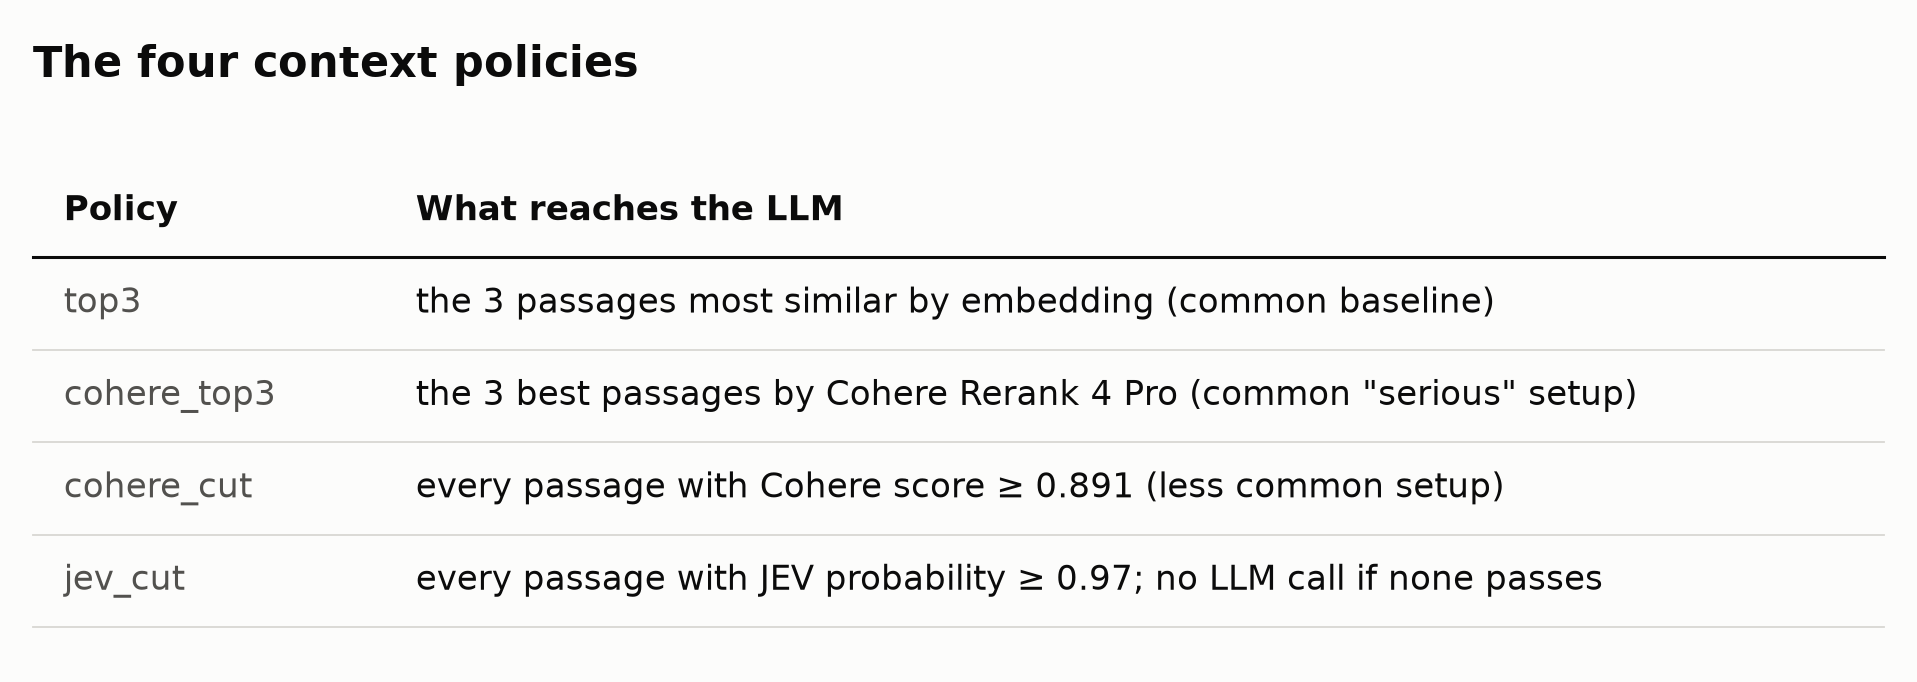
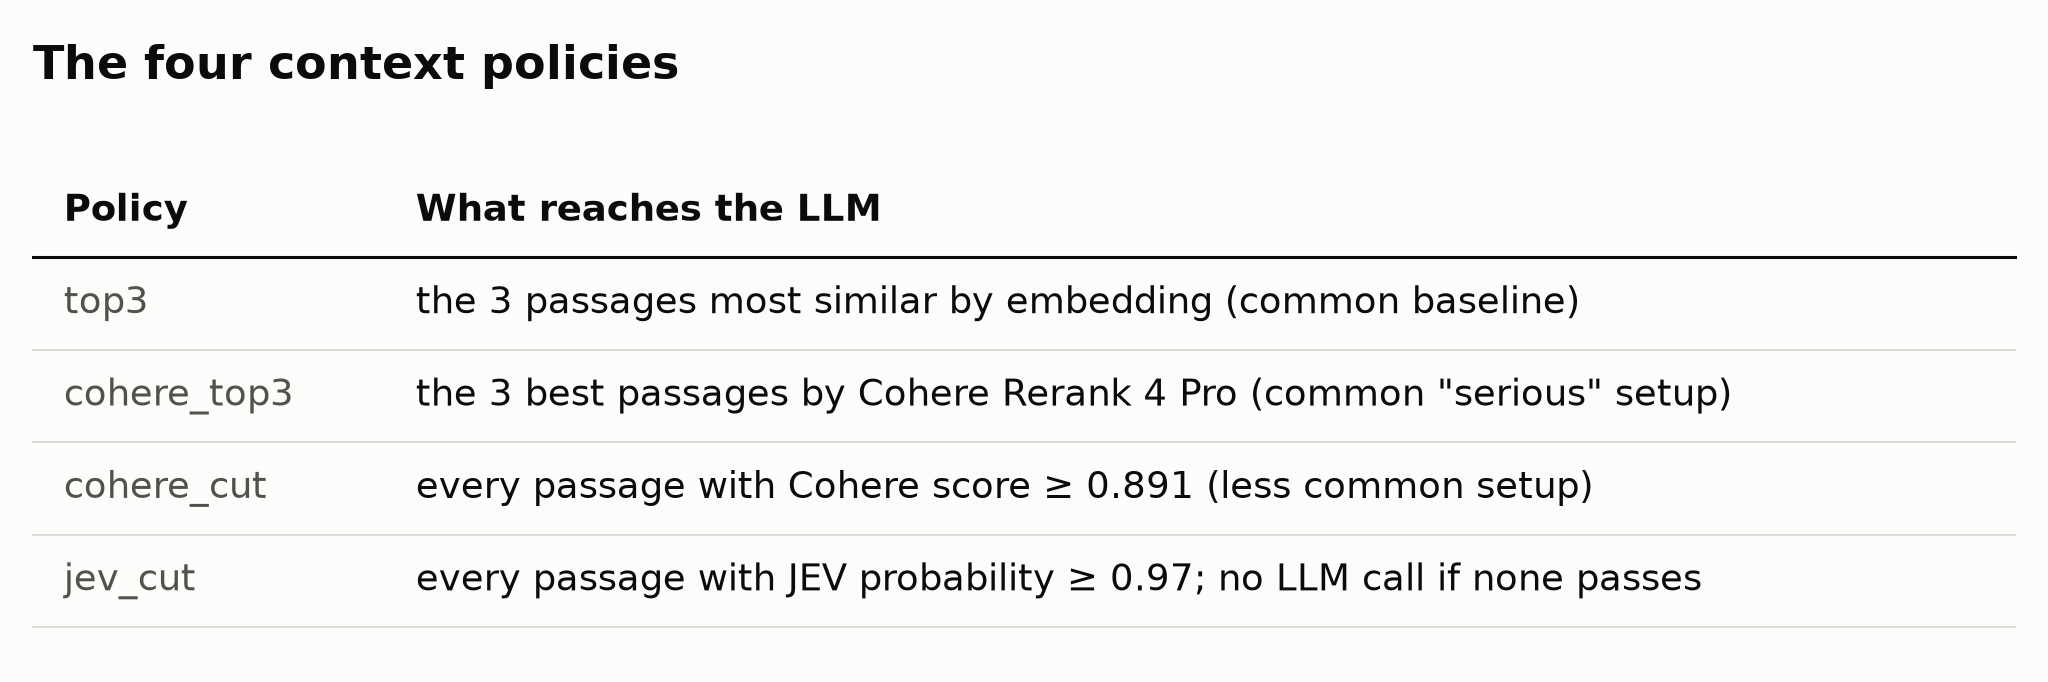
Revise article and figures after review
- Add the "confidently wrong answers" metric and a three-way split of
  answers (correct / confidently wrong / incorrect "I don't know")
- Figure 4: four methods, fair 85%-served comparison, full reranker names
- Figure notes, bolding and larger font; tested code snippet
- Shorter title, AI-assistance note and disclosure at the top

diff --git a/make_figures.py b/make_figures.py
@@ -20,7 +20,7 @@ ACCENT = "#2a78d6"  # highlighted column (JEV)
 ACCENT_TINT = "#e8f0fb"
 
 FONT = "DejaVu Sans"
-SIZE = 11
+SIZE = 12
 ROW_H = 0.42  # inches
 PAD_X = 0.14  # inches of horizontal padding per cell
 
@@ -132,14 +132,15 @@ def main() -> None:
     ]
     cols = [1, 2, 3, 4]
     b = set()
-    for r, lower in enumerate([True, True, True, False, False, True, False]):
+    for r, lower in enumerate([True, True, True, False, False, True]):  # last row (no LLM call) is cost, not quality
         b |= best(rows, r, cols, lower)
     table(
         "fig2_results",
         "Wrong answers and accuracy by context policy",
         head, rows, highlight=4, bold=b, first_col_min=3.9,
-        note="Bold: best value in each row. Judge: claude-sonnet-5. Generator: gpt-4.1-mini. One run.\n"
-             "Confidently wrong = not correct and not \"I don't know\" (includes hallucinations).",
+        note="Bold: best value in each quality row. Judge: claude-sonnet-5. Generator: gpt-4.1-mini. One run.\n"
+             "Every answer is exactly one of: correct, confidently wrong (includes hallucinations), or an\n"
+             "incorrect \"I don't know\" (a false abstention, or an abstention mixed with an unsupported claim).",
     )
 
     # 3. cost
@@ -154,26 +155,28 @@ def main() -> None:
         "fig3_cost",
         "Cost per 1,000 questions",
         head, rows, highlight=4, bold=b, first_col_min=2.4,
-        note="* Cohere list price (~$2.50 per 1,000 searches). JEV and LLM costs measured from OpenRouter usage.\n"
-             "JEV vs. Cohere top-3: ~7× cheaper overall. JEV vs. plain top-3: +14% cost, 8× fewer hallucinations.",
+        note="Bold: lowest cost in each row. * Cohere list price (~$2.50 per 1,000 searches).\n"
+             "JEV and LLM costs measured from OpenRouter usage. The JEV cost includes an 11th call\n"
+             "per question that jev_cut doesn't use, so it is conservative (~9% high).",
     )
 
     # 4. ordering vs deciding
-    head = ["10 candidates per question", "Embedding", "MiniLM", "BGE-base", "bge-v2-m3", "Cohere 4 Pro", "JEV"]
+    head = ["", "Embedding", "bge-reranker-v2-m3", "Cohere Rerank 4 Pro", "JEV"]
     rows = [
-        ["Ordering: top-1 passage answers", "85%", "93%", "89%", "97%", "97%", "95%"],
-        ["Deciding: detects \"no useful passage\" (AUC)", "0.69", "0.70", "0.72", "0.79", "0.85", "0.95"],
-        ["Deciding: sends nothing when nothing is useful", "75%", "57%", "44%", "51%", "59%", "87%"],
-        ["…the same, used as top-k (the usual way)", "0%", "0%", "0%", "0%", "0%", "–"],
+        ["Top-1 passage answers", "85%", "97%", "97%", "95%"],
+        ["Detects \"no useful passage\" (AUC)", "0.69", "0.79", "0.85", "0.95"],
+        ["Withholds useless context*", "31%", "52%", "61%", "87%"],
+        ["…used as top-k (the usual way)", "0%", "0%", "0%", "–"],
     ]
-    cols = [1, 2, 3, 4, 5, 6]
+    cols = [1, 2, 3, 4]
     b = best(rows, 0, cols, False) | best(rows, 1, cols, False) | best(rows, 2, cols, False)
     table(
         "fig4_ordering_vs_deciding",
         "Rerankers order better. JEV decides better.",
-        head, rows, highlight=6, bold=b, first_col_min=4.3,
-        note="Retrieval-level evaluation, no LLM involved. 239 questions with a useful candidate (ordering);\n"
-             "61 with none (deciding). Cut-offs tuned on 100 separate questions. Bold: best value in each row.",
+        head, rows, highlight=4, bold=b, first_col_min=3.6,
+        note="Retrieval only, no LLM: all 300 test questions, 10 candidates each. Ordering: the 239\n"
+             "with a useful candidate. Deciding: the 61 without one. * With each method's cut-off set so that\n"
+             "85% of questions get a useful passage. Bold: best in row. MiniLM and BGE-base in the repository.",
     )
 
 

diff --git a/artigo_medium_en.md b/artigo_medium_en.md
@@ -1,8 +1,10 @@
-# JEV Gating vs. Top-k Reranking: 8× Fewer RAG Hallucinations at One-Seventh the Cost
+# JEV Gating Beats Top-k: 8× Fewer RAG Hallucinations at 1/7 the Cost
 
 ## Rerankers are great at ordering passages. They can't say "none of these answer the question." A decision model can.
 
-*Disclosure: the author has no affiliation with, and received no funding or credits from, TypeSafe, Cohere, Anthropic, OpenAI or OpenRouter. All API usage was paid for by the author (Cohere via its free trial key).*
+> **A note before you start.** This article isn't meant to pass as my own writing. Its purpose is to share an experiment that tested an idea of mine, and whose results, within the limits described below, support it. To get the results out quickly, the text was drafted by AI (Claude Opus 5.5) and reviewed and edited by me. The experiment code was also written with it, under my direction. The idea, the thesis and the decisions are mine, and every number comes from the code and results published in the repository. More details in "How this was made", at the end.
+>
+> **Disclosure:** I have no affiliation with, and received no funding or credits from, TypeSafe, Cohere, Anthropic, OpenAI or OpenRouter. All API usage was paid for by me (Cohere via its free trial key).
 
 ---
 
@@ -21,7 +23,7 @@ We ran 299 SQuAD 2.0 questions through four RAG context policies and had an LLM 
 
 A standard RAG pipeline embeds your documents, retrieves the *k* passages most similar to the question, optionally reranks them, and sends the top few to the LLM. This has two weak points:
 
-1. **Embeddings measure topic similarity, not usefulness.** A passage about *who designed* a monument looks very similar to *"when was the monument inaugurated?"*, but doesn't answer it. In our test, for **15% of the questions** the top embedding hit did not contain the answer, even though another retrieved passage did.
+1. **Embeddings measure topic similarity, not usefulness.** A passage about *who designed* a monument looks very similar to *"when was the monument inaugurated?"*, but doesn't answer it. In our test, in **15% of the questions that had a useful candidate**, the top embedding hit did not contain the answer, even though another retrieved passage did.
 2. **Nothing in the pipeline can say "there is no answer here."** Top-*k* always sends *k* passages. When the answer isn't in your documents, the LLM gets plausible but irrelevant context, and it tends to "help" by answering anyway.
 
 Rerankers fix the first problem, not the second. They are trained to **order** passages and are almost always used as "give me the top *k*", so there is always a "best" passage to send, even when every candidate is useless.
@@ -51,16 +53,21 @@ The property that matters: **JEV's probabilities were comparable across question
 - **Correct:** every part of the question is answered correctly. For an unanswerable question, the only correct answer is "I don't know".
 - **Hallucination:** the answer states something that is not in the context the LLM received, or that contradicts the reference.
 - **Confidently wrong:** the answer is not correct and does not say "I don't know". This includes hallucinations, and also answering an unanswerable question from a plausible passage. The judge doesn't flag that second case as a hallucination, because the claim is in the context, but for the user it's just as wrong.
+- **Incorrect "I don't know":** the answer says it doesn't know but isn't correct. This is either a false abstention (the answer existed) or, in a few cases, an abstention mixed with an unsupported claim.
+
+Every answer falls in exactly one of three groups: correct, confidently wrong, or incorrect "I don't know". Hallucinations are a subset of the confidently wrong answers.
 
 **The four context policies:**
 
 ![The four context policies: top3, cohere_top3, cohere_cut and jev_cut](https://raw.githubusercontent.com/marciosferreira/jev-vs-rerankers/main/figures/fig1_policies.png)
+*The four context policies compared.*
 
 ## Results
 
 ### Wrong answers and accuracy (299 questions)
 
 ![Hallucinated answers: top3 24, cohere_top3 23, cohere_cut 7, jev_cut 3. Confidently wrong answers: 46, 48, 24, 13. Correct answers: 81.3%, 81.9%, 79.3%, 83.6%](https://raw.githubusercontent.com/marciosferreira/jev-vs-rerankers/main/figures/fig2_results.png)
+*End-to-end results on 299 SQuAD 2.0 questions, graded by an LLM judge.*
 
 - **Against Cohere top-3:** in the questions where only one of the two hallucinated, JEV came out ahead **21 to 1**. For confidently wrong answers the count was **38 to 3**. Both have McNemar p < 0.001. Overall accuracy was a statistical tie.
 - **Against Cohere with a tuned cut-off:** JEV had fewer hallucinations (3 vs 7, not significant) and fewer confidently wrong answers (13 vs 24; p = 0.05, 95% CI of the difference −7.0 to −0.3 points). That result is borderline, not conclusive.
@@ -69,6 +76,7 @@ The property that matters: **JEV's probabilities were comparable across question
 ### Cost and latency
 
 ![Total cost per 1,000 questions: top3 $0.341, cohere_top3 $2.841, cohere_cut $2.650, jev_cut $0.389](https://raw.githubusercontent.com/marciosferreira/jev-vs-rerankers/main/figures/fig3_cost.png)
+*Cost per 1,000 questions: LLM generation plus passage scoring.*
 
 Cohere at list price, about $2.50 per 1,000 searches (one search is one query with up to 100 documents).
 
@@ -84,17 +92,18 @@ The JEV figures come from **11 calls per question**, sent in parallel: 10 releva
 
 We also scored all 10 candidates of every question with six methods and compared the scores with the ground truth, with no LLM involved.
 
-![Top-1 passage answers: Cohere and bge-v2-m3 97%, JEV 95%. Detects no useful passage (AUC): JEV 0.95, Cohere 0.85. Sends nothing when nothing is useful: JEV 87%, Cohere 59%](https://raw.githubusercontent.com/marciosferreira/jev-vs-rerankers/main/figures/fig4_ordering_vs_deciding.png)
+![Top-1 passage answers: Cohere Rerank 4 Pro and bge-reranker-v2-m3 97%, JEV 95%. Detects no useful passage (AUC): JEV 0.95, Cohere 0.85. Withholds useless context at 85% of questions served: JEV 87%, Cohere 61%, bge-reranker-v2-m3 52%, embedding 31%](https://raw.githubusercontent.com/marciosferreira/jev-vs-rerankers/main/figures/fig4_ordering_vs_deciding.png)
+*Retrieval-level comparison on all 300 test questions, no LLM involved.*
 
 Two different sets of "no answer" questions appear in this article:
 
 - **54 unanswerable questions**, where the answer isn't in the knowledge base at all;
 - **61 questions with no useful passage among the 10 candidates**: the 54 above, plus 7 where the answer is in the base but retrieval didn't bring it.
 
-The "deciding" rows use the 61.
+This retrieval-level evaluation doesn't use the judge, so it covers all 300 test questions: 239 with a useful candidate, which the "ordering" row uses, and 61 without one, which the "deciding" rows use.
 
 - **Ordering:** the state-of-the-art rerankers are 2 points ahead of JEV. That gap isn't statistically significant.
-- **Deciding:** JEV is clearly ahead. At a tuned cut-off it withheld useless context in **87%** of the 61 cases, against **59%** for Cohere (+28 points, 95% CI +13 to +43). The gap doesn't depend on that particular cut-off: if each method's cut-off is set so that 85% of the questions get a useful passage, JEV withholds in 87% of the cases and Cohere in 61%. The gap holds at 90% and 80% as well.
+- **Deciding:** JEV is clearly ahead. The fairest comparison sets each method's cut-off so that the same share of questions (85%) still gets a useful passage. At that point JEV withholds useless context in **87%** of the 61 cases, Cohere in **61%**, bge-reranker-v2-m3 in 52% and the embedding in 31%. The gap holds at 90% and 80% as well. With the cut-offs tuned on the separate question set, the numbers are 87% for JEV and 59% for Cohere (+28 points, 95% CI +13 to +43).
 
 The likely reason is how each model is trained. A reranker learns *"A is better than B for this query"*, so its scores aren't meant to be compared across queries. JEV answers a yes/no question with a probability, which is what a fixed "send it or not" rule needs.
 
@@ -118,9 +127,12 @@ def relevance(question: str, passage: str) -> float:
         },
         timeout=60,
     )
+    r.raise_for_status()   # surfaces 429s instead of a confusing KeyError
     return r.json()["answers"]["rel"]["noul"]   # probability of "yes", 0 to 1
 
 def answer(question: str, candidates: list[str], cutoff: float = 0.97) -> str:
+    if not candidates:
+        return "I couldn't find this in the documents I searched."
     with ThreadPoolExecutor(max_workers=len(candidates)) as pool:   # parallel: ~0.7 s for 10
         probs = list(pool.map(lambda p: relevance(question, p), candidates))
     context = [p for p, prob in zip(candidates, probs) if prob >= cutoff]
@@ -150,6 +162,17 @@ Practical notes:
 ## Bottom line
 
 If your application can live with an occasional "I don't know" but not with a confident wrong answer (legal, health, support, compliance), don't let a reranker's top-*k* decide what your LLM reads. Rerankers are excellent at ordering. A decision model is better at the question that actually prevents wrong answers: *is there anything here worth sending at all?*
+
+## How this was made
+
+This study was built together with an AI assistant, and I want to be specific about who did what.
+
+- **The question and the thesis are mine.** I started from a practical doubt: can a yes/no decision model tell apart passages that answer a question from passages that only look similar, better than a reranker? The claims in this article are the ones I decided to make.
+- **The code was written by Claude Opus 5.5** (Anthropic), running in Claude Code, from my instructions: the RAG pipeline, the experiments, the statistics and the figures.
+- **The method was a dialogue.** Several methodological choices were proposed by the AI and then accepted, changed or rejected by me. These included the similarity-threshold and top-*k* controls, testing against state-of-the-art rerankers, tuning cut-offs on a separate question set, and measuring real costs. Other choices came from me, such as putting the gate in front of a top-1 RAG, the focus on hallucination and cost, and which rerankers to test and in what order.
+- **The text was drafted with Claude Opus 5.5** and reviewed and edited by me.
+- **Every number comes from the published code and results**, not from the AI's text. Anyone can rerun the experiments from the repository.
+- **A note on vendors:** the code was written, and the answers graded, by Anthropic models (Claude Opus 5.5 and `claude-sonnet-5`). No Anthropic product was among the systems compared.
 
 ---
 

diff --git a/artigo_rascunho.md b/artigo_rascunho.md
@@ -4,8 +4,12 @@
 
 > **Rascunho** (versão em português; a versão para o Medium está em `artigo_medium_en.md`). Números de uma execução no SQuAD 2.0 (300 perguntas de teste).
 
-**Autores:** _a definir_
+**Autor:** Marcio Ferreira
 **Data:** setembro de 2026
+
+> **Antes de começar.** Este artigo não pretende parecer um texto escrito por mim. O objetivo é divulgar um experimento que testou uma ideia minha e cujos resultados, dentro dos limites descritos adiante, a sustentam. Para publicar os resultados mais rápido, o texto foi rascunhado por IA (Claude Opus 5.5) e revisado e editado por mim. O código dos experimentos também foi escrito com ela, sob a minha direção. A ideia, a tese e as decisões são minhas, e todos os números vêm do código e dos resultados publicados no repositório. Mais detalhes em "Como este trabalho foi feito", no fim.
+>
+> **Conflito de interesse:** não tenho vínculo com a TypeSafe, a Cohere, a Anthropic, a OpenAI ou o OpenRouter, nem recebi financiamento ou créditos deles. Todo o uso de API foi pago por mim (a Cohere, pela chave de teste gratuita).
 
 ---
 
@@ -32,7 +36,7 @@ Um pipeline de RAG típico segue quatro passos: (1) transformar a base de docume
 
 Esse desenho tem duas fragilidades:
 
-1. **Similaridade não é o mesmo que resposta.** O embedding mede se o trecho "fala do mesmo assunto". Um trecho sobre quem projetou o Cristo Redentor é muito parecido com a pergunta "quando o Cristo foi inaugurado?", mas não a responde. No nosso teste, **15% das perguntas** tinham um trecho útil entre os candidatos, mas o 1º colocado pelo embedding não respondia.
+1. **Similaridade não é o mesmo que resposta.** O embedding mede se o trecho "fala do mesmo assunto". Um trecho sobre quem projetou o Cristo Redentor é muito parecido com a pergunta "quando o Cristo foi inaugurado?", mas não a responde. No nosso teste, em **15% das perguntas que tinham um trecho útil entre os candidatos**, o 1º colocado pelo embedding não respondia.
 2. **Ninguém decide que não há resposta.** O passo (4) sempre envia *k* trechos. Quando a resposta não existe na base, o LLM recebe *k* trechos plausíveis e irrelevantes e tende a "ajudar" com uma resposta inventada. Os rerankers corrigem a **ordem**, mas não mudam isso: são treinados para ordenar e usados para devolver os top-*k*.
 
 **Tese.** Um modelo de decisão, que responde "este trecho ajuda a responder a pergunta?" com uma probabilidade comparável entre perguntas, pode fazer o que o reranker não faz: **enviar ao LLM só os trechos que servem, e nenhum quando nenhum serve.** Isso ataca a alucinação na origem, reduz o contexto enviado ao LLM e, nas perguntas sem resposta, evita até a chamada ao LLM. Testamos essa tese com o JEV contra rerankers de ponta.
@@ -118,6 +122,9 @@ Mesmos candidatos e mesmas notas da etapa 1. Quatro **políticas de contexto** d
 - **Correta:** todas as partes da pergunta respondidas corretamente. Numa pergunta sem resposta, a única resposta correta é "não sei".
 - **Alucinação:** a resposta afirma algo que não está no contexto recebido pelo gerador, ou que contradiz a referência.
 - **Errada com confiança:** a resposta não é correta e não diz "não sei". Isso inclui as alucinações e também **responder uma pergunta sem resposta a partir de um trecho parecido**. O juiz não marca esse segundo caso como alucinação, porque a afirmação está no contexto, mas para o usuário ela é igualmente errada.
+- **"Não sei" incorreto:** a resposta diz que não sabe, mas não é correta. É uma abstenção indevida (a resposta existia) ou, em poucos casos, uma abstenção misturada com uma afirmação sem apoio (2 casos no cohere_top3 e 2 no cohere_cut, nas perguntas sem resposta).
+
+Toda resposta cai em exatamente um de três grupos: correta, errada com confiança ou "não sei" incorreto. As alucinações são um subconjunto das erradas com confiança.
 
 **Dois conjuntos de "sem resposta":**
 
@@ -328,6 +335,19 @@ Deixar o JEV decidir o contexto, com um corte fixo na probabilidade de relevânc
 - **teve latência equivalente.**
 
 A contrapartida é mais "não sei" nas perguntas que tinham resposta. Para aplicações em que evitar alucinação é prioridade, os resultados indicam que um modelo de decisão como o JEV é uma camada de controle mais adequada, e mais barata, que os rerankers de ponta.
+
+---
+
+## Como este trabalho foi feito
+
+Este estudo foi construído junto com um assistente de IA, e vale dizer com precisão quem fez o quê.
+
+- **A pergunta e a tese são do autor.** O ponto de partida foi uma dúvida prática: um modelo de decisão sim/não separa melhor que um reranker os trechos que respondem à pergunta dos que só parecem parecidos? As afirmações deste artigo são as que o autor decidiu fazer.
+- **O código foi escrito pelo Claude Opus 5.5** (Anthropic), no Claude Code, a partir das instruções do autor: o pipeline de RAG, os experimentos, a estatística e as figuras.
+- **O método foi construído em diálogo.** Várias escolhas de método foram propostas pela IA e aceitas, alteradas ou recusadas pelo autor. Entre elas: os controles de corte por similaridade e de top-*k*, a comparação com rerankers de ponta, o ajuste dos cortes num conjunto separado de perguntas e a medição do custo real. Outras escolhas partiram do autor, como colocar o portão na frente de um RAG top-1, o foco em alucinação e custo, e quais rerankers testar e em que ordem.
+- **O texto foi redigido com o Claude Opus 5.5** e revisado e editado pelo autor.
+- **Todos os números vêm do código e dos resultados publicados**, não do texto da IA. Qualquer pessoa pode refazer os experimentos a partir do repositório.
+- **Uma nota sobre fornecedores:** o código foi escrito, e as respostas avaliadas, por modelos da Anthropic (Claude Opus 5.5 e `claude-sonnet-5`). Nenhum produto da Anthropic estava entre os sistemas comparados.
 
 ---
 
